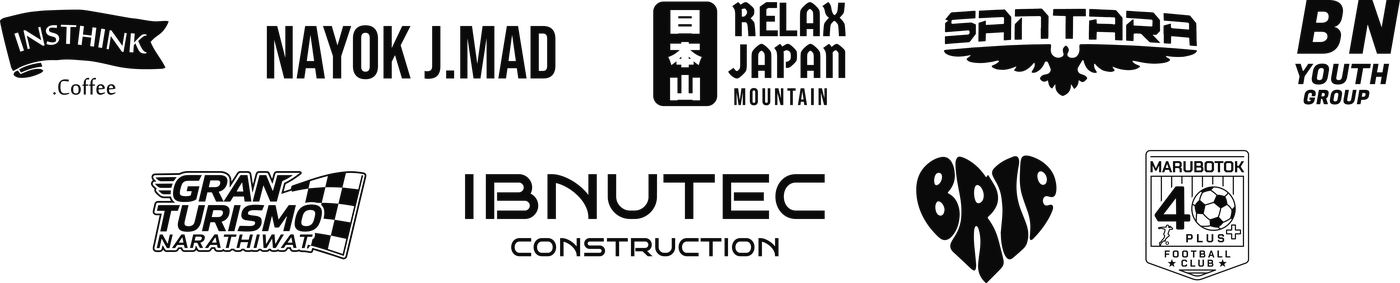
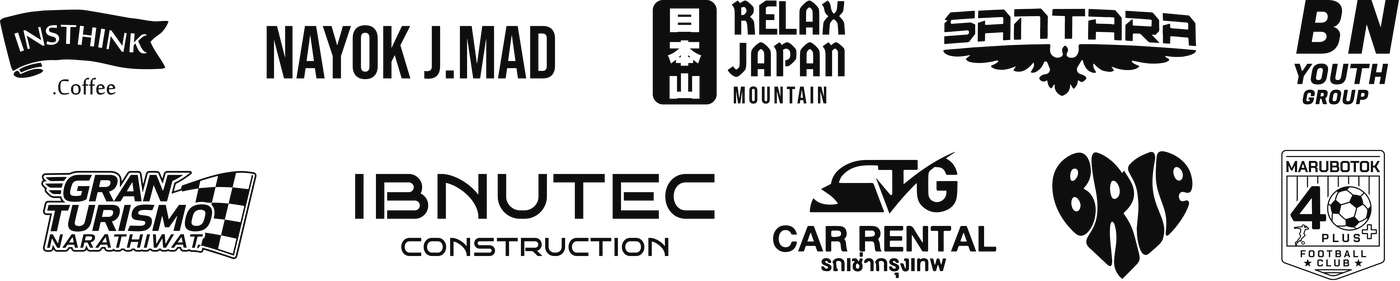
Add files via upload

diff --git a/index.html b/index.html
@@ -11,7 +11,7 @@
   <link rel="preconnect" href="https://fonts.googleapis.com">
   <link rel="preconnect" href="https://fonts.gstatic.com" crossorigin>
   <link href="https://fonts.googleapis.com/css2?family=Kanit:ital,wght@0,300;0,400;0,500;0,600;0,700;0,800;1,700;1,800&display=swap" rel="stylesheet">
-  <link rel="stylesheet" href="css/style.css?v=20.26">
+  <link rel="stylesheet" href="css/style.css?v=20.28">
 </head>
 <body>
   <header class="site-head" data-nav></header>
@@ -167,16 +167,16 @@
       <span class="kicker light">Supported by</span>
       <picture>
         <source media="(min-width: 720px)" srcset="img/sponsors-row-white.webp">
-        <img src="img/sponsors-grid-white.webp" alt="ผู้สนับสนุน: Insthink Coffee, Nayok J.Mad, Relax Japan Mountain, Santara, BN Youth Group, Gran Turismo Narathiwat, Ibnutec Construction, BRIP, Marubotok 40 Plus FC" loading="lazy">
+        <img src="img/sponsors-grid-white.webp" alt="ผู้สนับสนุน: Insthink Coffee, Nayok J.Mad, Relax Japan Mountain, Santara, BN Youth Group, Gran Turismo Narathiwat, Ibnutec Construction, STG Car Rental, BRIP, Marubotok 40 Plus FC" loading="lazy">
       </picture>
     </section>
   </main>
 
   <footer class="site-foot"><img src="img/logo.png" alt="INSTHINK RUN CLUB"></footer>
 
-  <script src="js/config.js?v=20.26"></script>
-  <script src="js/api.js?v=20.26"></script>
-  <script src="js/common.js?v=20.26"></script>
-  <script src="js/home.js?v=20.26"></script>
+  <script src="js/config.js?v=20.28"></script>
+  <script src="js/api.js?v=20.28"></script>
+  <script src="js/common.js?v=20.28"></script>
+  <script src="js/home.js?v=20.28"></script>
 </body>
 </html>

diff --git a/profile.html b/profile.html
@@ -10,7 +10,7 @@
   <link rel="preconnect" href="https://fonts.googleapis.com">
   <link rel="preconnect" href="https://fonts.gstatic.com" crossorigin>
   <link href="https://fonts.googleapis.com/css2?family=Kanit:ital,wght@0,300;0,400;0,500;0,600;0,700;0,800;1,700;1,800&display=swap" rel="stylesheet">
-  <link rel="stylesheet" href="css/style.css?v=20.26">
+  <link rel="stylesheet" href="css/style.css?v=20.28">
 </head>
 <body>
   <header class="site-head" data-nav></header>
@@ -213,12 +213,12 @@
   <script src="https://cdnjs.cloudflare.com/ajax/libs/qrcodejs/1.0.0/qrcode.min.js"></script>
   <script src="https://cdn.jsdelivr.net/npm/jsbarcode@3.11.6/dist/JsBarcode.all.min.js"></script>
   <script src="https://cdnjs.cloudflare.com/ajax/libs/html2canvas/1.4.1/html2canvas.min.js"></script>
-  <script src="js/config.js?v=20.26"></script>
-  <script src="js/api.js?v=20.26"></script>
-  <script src="js/common.js?v=20.26"></script>
-  <script src="js/draw.js?v=20.26"></script>
-  <script src="js/story.js?v=20.26"></script>
-  <script src="js/finisher.js?v=20.26"></script>
-  <script src="js/profile.js?v=20.26"></script>
+  <script src="js/config.js?v=20.28"></script>
+  <script src="js/api.js?v=20.28"></script>
+  <script src="js/common.js?v=20.28"></script>
+  <script src="js/draw.js?v=20.28"></script>
+  <script src="js/story.js?v=20.28"></script>
+  <script src="js/finisher.js?v=20.28"></script>
+  <script src="js/profile.js?v=20.28"></script>
 </body>
 </html>

diff --git a/search.html b/search.html
@@ -10,7 +10,7 @@
   <link rel="preconnect" href="https://fonts.googleapis.com">
   <link rel="preconnect" href="https://fonts.gstatic.com" crossorigin>
   <link href="https://fonts.googleapis.com/css2?family=Kanit:ital,wght@0,300;0,400;0,500;0,600;0,700;0,800;1,700;1,800&display=swap" rel="stylesheet">
-  <link rel="stylesheet" href="css/style.css?v=20.26">
+  <link rel="stylesheet" href="css/style.css?v=20.28">
 </head>
 <body>
   <header class="site-head" data-nav></header>
@@ -33,9 +33,9 @@
 
   <footer class="site-foot"><img src="img/logo.png" alt="INSTHINK RUN CLUB"></footer>
 
-  <script src="js/config.js?v=20.26"></script>
-  <script src="js/api.js?v=20.26"></script>
-  <script src="js/common.js?v=20.26"></script>
+  <script src="js/config.js?v=20.28"></script>
+  <script src="js/api.js?v=20.28"></script>
+  <script src="js/common.js?v=20.28"></script>
   <script>
     /* หน้าค้นหา — action "search" คืนข้อมูลแบบจำกัด */
     (function () {

diff --git a/account.html b/account.html
@@ -10,7 +10,7 @@
   <link rel="preconnect" href="https://fonts.googleapis.com">
   <link rel="preconnect" href="https://fonts.gstatic.com" crossorigin>
   <link href="https://fonts.googleapis.com/css2?family=Kanit:ital,wght@0,300;0,400;0,500;0,600;0,700;0,800;1,700;1,800&display=swap" rel="stylesheet">
-  <link rel="stylesheet" href="css/style.css?v=20.26">
+  <link rel="stylesheet" href="css/style.css?v=20.28">
 </head>
 <body>
   <header class="site-head" data-nav></header>
@@ -64,9 +64,9 @@
 
   <footer class="site-foot"><img src="img/logo.png" alt="INSTHINK RUN CLUB"></footer>
 
-  <script src="js/config.js?v=20.26"></script>
-  <script src="js/api.js?v=20.26"></script>
-  <script src="js/common.js?v=20.26"></script>
-  <script src="js/account.js?v=20.26"></script>
+  <script src="js/config.js?v=20.28"></script>
+  <script src="js/api.js?v=20.28"></script>
+  <script src="js/common.js?v=20.28"></script>
+  <script src="js/account.js?v=20.28"></script>
 </body>
 </html>

diff --git a/login.html b/login.html
@@ -10,7 +10,7 @@
   <link rel="preconnect" href="https://fonts.googleapis.com">
   <link rel="preconnect" href="https://fonts.gstatic.com" crossorigin>
   <link href="https://fonts.googleapis.com/css2?family=Kanit:ital,wght@0,300;0,400;0,500;0,600;0,700;0,800;1,700;1,800&display=swap" rel="stylesheet">
-  <link rel="stylesheet" href="css/style.css?v=20.26">
+  <link rel="stylesheet" href="css/style.css?v=20.28">
 </head>
 <body>
   <header class="site-head" data-nav></header>
@@ -83,9 +83,9 @@
 
   <footer class="site-foot"><img src="img/logo.png" alt="INSTHINK RUN CLUB"></footer>
 
-  <script src="js/config.js?v=20.26"></script>
-  <script src="js/api.js?v=20.26"></script>
-  <script src="js/common.js?v=20.26"></script>
-  <script src="js/login.js?v=20.26"></script>
+  <script src="js/config.js?v=20.28"></script>
+  <script src="js/api.js?v=20.28"></script>
+  <script src="js/common.js?v=20.28"></script>
+  <script src="js/login.js?v=20.28"></script>
 </body>
 </html>

diff --git a/checkin.html b/checkin.html
@@ -11,7 +11,7 @@
   <link rel="preconnect" href="https://fonts.googleapis.com">
   <link rel="preconnect" href="https://fonts.gstatic.com" crossorigin>
   <link href="https://fonts.googleapis.com/css2?family=Kanit:ital,wght@0,300;0,400;0,500;0,600;0,700;0,800;1,700;1,800&display=swap" rel="stylesheet">
-  <link rel="stylesheet" href="css/style.css?v=20.26">
+  <link rel="stylesheet" href="css/style.css?v=20.28">
 </head>
 <body>
   <header class="site-head">
@@ -57,9 +57,9 @@
   </main>
 
   <script src="https://unpkg.com/html5-qrcode@2.3.8/html5-qrcode.min.js"></script>
-  <script src="js/config.js?v=20.26"></script>
-  <script src="js/api.js?v=20.26"></script>
-  <script src="js/common.js?v=20.26"></script>
-  <script src="js/checkin.js?v=20.26"></script>
+  <script src="js/config.js?v=20.28"></script>
+  <script src="js/api.js?v=20.28"></script>
+  <script src="js/common.js?v=20.28"></script>
+  <script src="js/checkin.js?v=20.28"></script>
 </body>
 </html>

diff --git a/register.html b/register.html
@@ -11,7 +11,7 @@
   <link rel="preconnect" href="https://fonts.googleapis.com">
   <link rel="preconnect" href="https://fonts.gstatic.com" crossorigin>
   <link href="https://fonts.googleapis.com/css2?family=Kanit:ital,wght@0,300;0,400;0,500;0,600;0,700;0,800;1,700;1,800&display=swap" rel="stylesheet">
-  <link rel="stylesheet" href="css/style.css?v=20.26">
+  <link rel="stylesheet" href="css/style.css?v=20.28">
 </head>
 <body>
   <header class="site-head" data-nav></header>
@@ -118,9 +118,9 @@
 
   <footer class="site-foot"></footer>
 
-  <script src="js/config.js?v=20.26"></script>
-  <script src="js/api.js?v=20.26"></script>
-  <script src="js/common.js?v=20.26"></script>
-  <script src="js/register.js?v=20.26"></script>
+  <script src="js/config.js?v=20.28"></script>
+  <script src="js/api.js?v=20.28"></script>
+  <script src="js/common.js?v=20.28"></script>
+  <script src="js/register.js?v=20.28"></script>
 </body>
 </html>

diff --git a/admin.html b/admin.html
@@ -11,7 +11,7 @@
   <link rel="preconnect" href="https://fonts.googleapis.com">
   <link rel="preconnect" href="https://fonts.gstatic.com" crossorigin>
   <link href="https://fonts.googleapis.com/css2?family=Kanit:ital,wght@0,300;0,400;0,500;0,600;0,700;0,800;1,700;1,800&display=swap" rel="stylesheet">
-  <link rel="stylesheet" href="css/style.css?v=20.26">
+  <link rel="stylesheet" href="css/style.css?v=20.28">
 </head>
 <body>
   <header class="site-head">
@@ -171,9 +171,9 @@
     </form>
   </div>
 
-  <script src="js/config.js?v=20.26"></script>
-  <script src="js/api.js?v=20.26"></script>
-  <script src="js/common.js?v=20.26"></script>
-  <script src="js/admin.js?v=20.26"></script>
+  <script src="js/config.js?v=20.28"></script>
+  <script src="js/api.js?v=20.28"></script>
+  <script src="js/common.js?v=20.28"></script>
+  <script src="js/admin.js?v=20.28"></script>
 </body>
 </html>

diff --git a/js/common.js b/js/common.js
@@ -459,7 +459,7 @@
           <a class="btn btn-sm admin-link" href="admin.html">Admin</a>
           <a class="btn btn-sm admin-link" href="checkin.html">Staff เช็คอิน</a>
         </div>
-        <div class="copy">© ${new Date().getFullYear()} INSTHINK RUN CLUB · ${esc(CFG.EVENT.hashtag || '')} · v20.26</div>
+        <div class="copy">© ${new Date().getFullYear()} INSTHINK RUN CLUB · ${esc(CFG.EVENT.hashtag || '')} · v20.28</div>
       </div>`;
     }
   }
